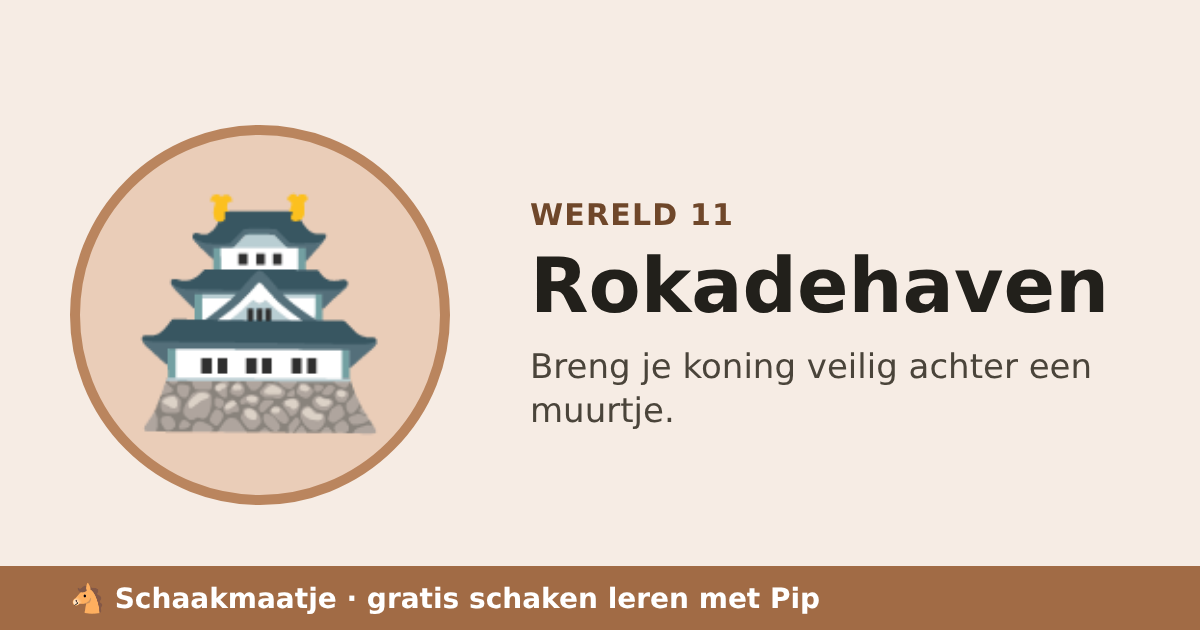
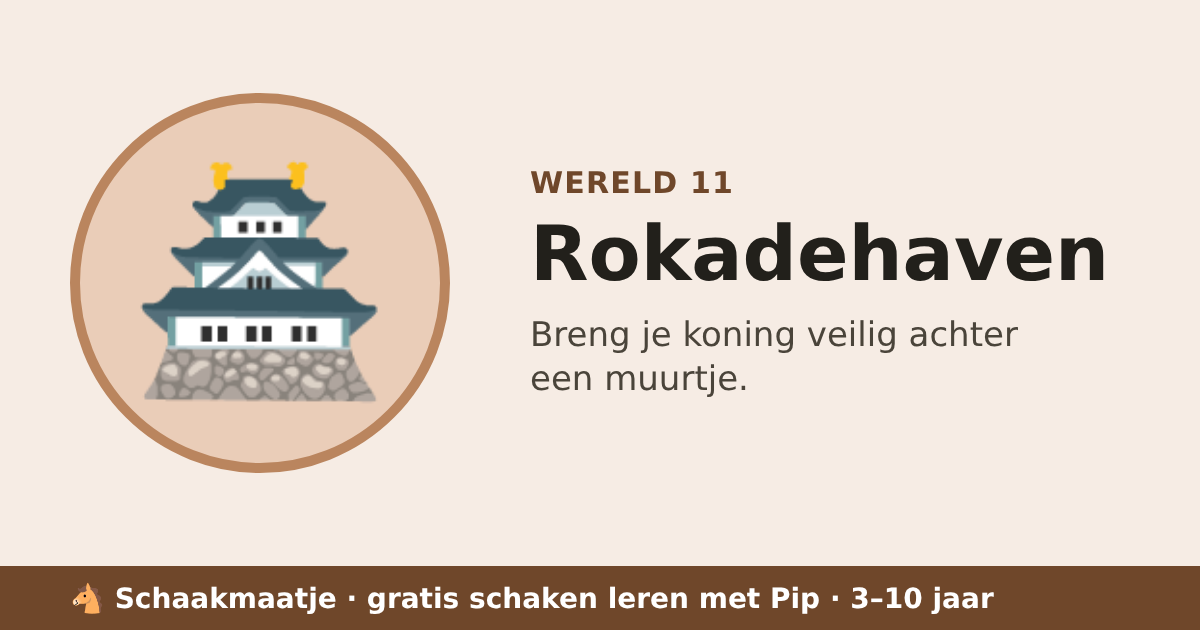
Deelplaatjes na 34e review: contrast, kleur-emoji, kopmaat, bordje, schaakclub, basePath

Changed region(s): [[0.0308, 0.1508, 0.4008, 0.8143], [0.0, 0.8746, 1.0, 1.0], [0.4317, 0.2714, 0.925, 0.6937]]

diff --git a/scripts/deelbeelden.ts b/scripts/deelbeelden.ts
@@ -8,6 +8,9 @@
  * erop waar de link over gaat: het wapen en de kleur van de wereld, of het stuk.
  * Een plaatje per wereld en niet per les: 15 in plaats van 49, en een les deelt het
  * beeld van zijn wereld. Bekijk ze vóór je commit (emoji hangen af van de machine).
+ *
+ * Draai dit opnieuw als een wereldnaam, belofte, vraag of `kort` verandert: de tekst
+ * staat in het plaatje gebakken. Alleen dan: elke generatie is ~2 MB in git.
  */
 import { chromium } from 'playwright'
 import { mkdirSync } from 'node:fs'
@@ -19,24 +22,37 @@ const UIT = join(process.cwd(), 'public', 'og')
 mkdirSync(UIT, { recursive: true })
 const GLYPH: Record<string, string> = { k: '♚', q: '♛', r: '♜', b: '♝', n: '♞', p: '♟' }
 
+const escape = (t: string) => t.replace(/&/g, '&amp;').replace(/</g, '&lt;').replace(/>/g, '&gt;')
+/** Geen weesje: de laatste twee woorden blijven bij elkaar. En "L-sprong" breekt niet. */
+const zet = (t: string) => escape(t).replace(/L-/g, 'L\u2011').replace(/ (\S+)$/, '\u00a0$1')
+// Een kop die langer is, krijgt een kleinere letter, zodat hij met marge in twee regels past.
+const kopMaat = (t: string) => (t.length > 26 ? 56 : t.length > 18 ? 62 : t.length > 13 ? 68 : 76)
+// Een klein geblokt bord (8×8, licht rechtsonder) voor de pagina over het opzetten.
+const BORDJE = `<svg viewBox="0 0 8 8" width="230" height="230" shape-rendering="crispEdges">${Array.from({ length: 64 }, (_, i) => {
+  const x = i % 8
+  const y = Math.floor(i / 8)
+  return `<rect x="${x}" y="${y}" width="1" height="1" fill="${(x + y) % 2 ? '#7d9a76' : '#f1e8da'}"/>`
+}).join('')}<rect x="0" y="0" width="8" height="8" fill="none" stroke="#5a4a36" stroke-width="0.12"/></svg>`
+
 const kaart = (o: { toon: number; beeld: string; kop: string; onder: string; label: string; glyph?: boolean }) => `
 <!doctype html><html><head><meta charset="utf-8"><style>
   * { box-sizing: border-box; margin: 0; }
   body { width: 1200px; height: 630px; font-family: 'DejaVu Sans', sans-serif;
     background: hsl(${o.toon} 50% 93%); color: #22201b; position: relative; overflow: hidden; }
-  .vak { position: absolute; inset: 0; display: grid; grid-template-columns: 420px 1fr; align-items: center; padding: 0 70px; gap: 40px; }
+  .vak { position: absolute; inset: 0 0 64px; display: grid; grid-template-columns: 420px 1fr; align-items: center; padding: 0 70px 0 70px; gap: 40px; }
+  .vak > div:last-child { padding-right: 0; max-width: 600px; }
   .wapen { width: 380px; height: 380px; border-radius: 50%; display: grid; place-items: center;
     background: hsl(${o.toon} 55% 82%); border: 10px solid hsl(${o.toon} 40% 55%);
     font-size: ${o.glyph ? 250 : 210}px; line-height: 1; color: #22201b; }
   .label { font-size: 30px; font-weight: 700; color: hsl(${o.toon} 45% 30%); letter-spacing: 0.04em; text-transform: uppercase; }
-  h1 { font-size: 76px; line-height: 1.05; margin: 14px 0 18px; }
+  h1 { font-size: ${kopMaat(o.kop)}px; line-height: 1.05; margin: 14px 0 18px; }
   p { font-size: 34px; line-height: 1.3; color: #4a443a; }
   .voet { position: absolute; left: 0; right: 0; bottom: 0; height: 64px; display: flex; align-items: center; gap: 14px;
-    padding: 0 70px; background: hsl(${o.toon} 40% 45%); color: #fff; font-size: 28px; font-weight: 700; }
+    padding: 0 70px; background: hsl(${o.toon} 45% 30%); color: #fff; font-size: 28px; font-weight: 700; }
 </style></head><body>
   <div class="vak"><div class="wapen">${o.beeld}</div>
-  <div><div class="label">${o.label}</div><h1>${o.kop}</h1><p>${o.onder}</p></div></div>
-  <div class="voet">🐴 Schaakmaatje · gratis schaken leren met Pip</div>
+  <div><div class="label">${escape(o.label)}</div><h1>${zet(o.kop)}</h1><p>${zet(o.onder)}</p></div></div>
+  <div class="voet">🐴 Schaakmaatje · gratis schaken leren met Pip · 3–10 jaar</div>
 </body></html>`
 
 const browser = await chromium.launch(process.env.CHROMIUM_PAD ? { executablePath: process.env.CHROMIUM_PAD } : {})
@@ -46,11 +62,17 @@ const maak = async (naam: string, html: string) => {
   await page.screenshot({ path: join(UIT, naam), type: 'png' })
 }
 for (const w of WERELDEN) {
-  await maak(`wereld-${w.id}.png`, kaart({ toon: w.toon, beeld: w.emoji, label: `Wereld ${w.nummer}`, kop: w.naam, onder: w.belofte }))
+  // Met U+FE0F: zonder dat tekende ⚡ (Schaakmeer) als dun zwart lijntje.
+  const emoji = w.emoji.endsWith('\uFE0F') ? w.emoji : `${w.emoji}\uFE0F`
+  await maak(`wereld-${w.id}.png`, kaart({ toon: w.toon, beeld: emoji, label: `Wereld ${w.nummer}`, kop: w.naam, onder: w.belofte }))
 }
 for (const o of SCHAAKREGELS) {
   const glyph = o.stuk ? GLYPH[o.stuk] : undefined
-  await maak(`regel-${o.slug}.png`, kaart({ toon: 32, beeld: glyph ?? o.teken ?? '♞', glyph: Boolean(glyph), label: 'Schaakregels voor kinderen', kop: o.vraag, onder: o.kort }))
+  // Twee tekens die weinig zeiden (34e review): een raster voor het bord, een pijl voor
+  // en passant. Nu een echt bordje en de pion waar het over gaat.
+  const beeld = o.slug === 'schaakbord-opzetten' ? BORDJE : o.slug === 'en-passant' ? GLYPH.p : (glyph ?? o.teken ?? '♞')
+  await maak(`regel-${o.slug}.png`, kaart({ toon: 32, beeld, glyph: Boolean(glyph) || o.slug === 'en-passant', label: 'Schaakregels voor kinderen', kop: o.vraag, onder: o.kort }))
 }
+await maak('schaakclub.png', kaart({ toon: 140, beeld: '🏆', label: 'Voor ouders', kop: 'Een schaakclub voor je kind vinden', onder: 'Klaar voor het echte bord? Zo vind je een club in de buurt.' }))
 await browser.close()
 console.log(`Deelplaatjes: ${WERELDEN.length} werelden en ${SCHAAKREGELS.length} schaakregels in public/og/.`)

diff --git a/scripts/hosting-klaar.ts b/scripts/hosting-klaar.ts
@@ -372,15 +372,29 @@ function vooraadOffline() {
 function controleerDeelplaatjes() {
   const fout: string[] = []
   let geteld = 0
+  const basis = (process.env.NEXT_PUBLIC_BASE_PATH ?? '').replace(/^\/|\/$/g, '')
   for (const b of alleBestanden(UIT)) {
     if (!b.endsWith('.html')) continue
-    for (const m of readFileSync(b, 'utf8').matchAll(/property="og:image" content="([^"]+)"/g)) {
+    const html = readFileSync(b, 'utf8')
+    // og:image én twitter:image, en in welke volgorde Next de attributen ook zet.
+    for (const m of html.matchAll(/<meta[^>]*(?:property="og:image"|name="twitter:image")[^>]*>/g)) {
+      const inhoud = m[0].match(/content="([^"]+)"/)?.[1]
+      if (!inhoud) continue
       geteld++
-      const pad = new URL(m[1]).pathname.replace(/^\//, '')
-      const basis = (process.env.NEXT_PUBLIC_BASE_PATH ?? '').replace(/^\/|\/$/g, '')
-      const lokaal = basis && pad.startsWith(basis + '/') ? pad.slice(basis.length + 1) : pad
-      if (!existsSync(join(UIT, lokaal))) fout.push(`${b.slice(UIT.length)} → ${m[1]}`)
+      let pad = new URL(inhoud, 'https://schaakmaatje.nl').pathname.replace(/^\//, '')
+      if (basis) {
+        if (!pad.startsWith(basis + '/')) {
+          fout.push(`${b.slice(UIT.length)} → ${inhoud} (zonder ${basis}/)`)
+          continue
+        }
+        pad = pad.slice(basis.length + 1)
+      }
+      if (!existsSync(join(UIT, pad))) fout.push(`${b.slice(UIT.length)} → ${inhoud}`)
     }
+  }
+  if (geteld === 0) {
+    console.error('Hosting-klaar: geen enkel deelplaatje gevonden in de HTML. Is de uitvoer van Next veranderd?')
+    process.exit(1)
   }
   if (fout.length) {
     console.error(`Hosting-klaar: deelplaatjes die niet bestaan:\n  ${fout.slice(0, 5).join('\n  ')}`)

diff --git a/src/seo.ts b/src/seo.ts
@@ -76,9 +76,12 @@ export function deelkaart(kaart: {
    */
   beeld?: { pad: string; alt: string }
 }): Pick<Metadata, 'openGraph' | 'twitter'> {
+  // metadataBase zet de basePath er niet voor; zonder deze regel wees elk deelplaatje in
+  // een submap naar een 404 (34e review).
+  const basis = process.env.NEXT_PUBLIC_BASE_PATH ?? ''
   const plaatje = kaart.beeld
-    ? { url: kaart.beeld.pad, width: 1200, height: 630, alt: kaart.beeld.alt }
-    : { url: '/og.png', width: 1200, height: 630, alt: `${NAAM}: ${SLOGAN}` }
+    ? { url: `${basis}${kaart.beeld.pad}`, width: 1200, height: 630, alt: kaart.beeld.alt }
+    : { url: `${basis}/og.png`, width: 1200, height: 630, alt: `${NAAM}: ${SLOGAN}` }
   return {
     openGraph: {
       type: 'website',

diff --git a/src/content/schaakregels.ts b/src/content/schaakregels.ts
@@ -725,7 +725,7 @@ export const SCHAAKREGELS: Onderwerp[] = [
     zoektitel: 'Pat bij schaken: wat het is en hoe je het voorkomt',
     omschrijving:
       'Pat is gelijkspel: je staat niet schaak, maar je kunt geen enkele zet meer doen. Zo ziet het eruit, en zo voorkom je het. Met bewegend bord.',
-    kort: 'Niet schaak, maar geen zet meer: gelijkspel.',
+    kort: 'Niet schaak, maar geen geldige zet meer: remise.',
     teken: '½',
     antwoord:
       'Pat is als de speler die aan zet is niet schaak staat, maar ook geen enkele geldige zet meer heeft. Dan is de partij afgelopen in remise, gelijkspel, ook als de ander veel meer stukken heeft.',

diff --git a/src/app/schaakclub/page.tsx b/src/app/schaakclub/page.tsx
@@ -35,6 +35,7 @@ export const metadata: Metadata = {
     titel: 'Een schaakclub voor je kind vinden | Schaakmaatje',
     omschrijving: OMSCHRIJVING,
     url: `${SITE}/schaakclub/`,
+    beeld: { pad: '/og/schaakclub.png', alt: 'Een schaakclub voor je kind vinden' },
   }),
 }
 

diff --git a/docs/reviews/2026-11-04-vierendertigste-review.md b/docs/reviews/2026-11-04-vierendertigste-review.md
@@ -1,0 +1,39 @@
+# Vierendertigste review: deelplaatjes per pagina (2026-11-04)
+
+Fase: "volgende niveau", ronde 9. Branch `volgende-niveau`. De reviewers zijn rechtstreeks gestart.
+
+**Oordeel na verwerking: GO voor deze fase.** Er is niets blokkerends. `check` en `doorloop` zijn groen. De build controleert nu 206 verwijzingen (`og:image` en `twitter:image`), ook met een basePath.
+
+## Wat er gebouwd is
+- `npm run deelbeelden` (`scripts/deelbeelden.ts`) maakt 28 plaatjes van 1200×630 in `public/og/`: 15 werelden, 12 schaakregels en schaakclub. Elk plaatje is 51–83 kB.
+- Lespagina's delen het plaatje van hun wereld, schaakregelpagina's hun eigen plaatje, en /schaakclub ook.
+- De overige pagina's houden `og.png`.
+
+## Schaakmeester
+- Bij elke regelpagina staat het goede stuk, en de uitleg en termen kloppen. Mat wordt niet vóór wereld 10 genoemd. Het plaatje van wereld 10 hoort alleen bij de lessen van die wereld, en dat is in orde.
+- **Klein: bij pat stond "geen zet meer".** *Opgelost* in de content: "Niet schaak, maar geen geldige zet meer: remise." De contentcontrole is groen.
+- **Klein: het raster bij "schaakbord opzetten" was 5×5.** *Opgelost:* er staat nu een bordje van 8×8 met rechtsonder een licht veld.
+- **Klein: "En hij kan dame worden!" (wereld 6) en de dubbele stap van de pion.** *Niet aangepast:* dat is een versimpeling en geen onwaarheid, en de regelpagina zegt het volledig.
+
+## Layout
+- **Belangrijk: de voettekst op de balk had te weinig contrast** (Weide 2,94, Schaak 2,93). *Opgelost:* de balk heeft nu overal `hsl(toon 45% 30%)`.
+- **Belangrijk: ⚡ (Schaakmeer) tekende als een lijntje.** *Opgelost* met U+FE0F: hij staat nu in kleur.
+- **Belangrijk: koppen liepen tot ±15 px van de rand.** *Opgelost:* lange koppen krijgen een kleinere letter, en de tekstkolom is maximaal 600 px breed.
+- **Klein: "L-" / "sprong" en weesjes.** *Opgelost* met een koppelteken dat niet afbreekt en een harde spatie voor het laatste woord.
+- **Klein: volle kaartjes en een kop van 4 regels.** *Opgelost* door de kleinere letter: nu maximaal 2 regels.
+- **Klein: de pijl bij en passant zei weinig.** *Opgelost:* er staat nu een pion.
+
+## Conversie
+- Afmeting en grootte zijn in orde. Titel en plaatje kloppen per pagina.
+- **/schaakclub verdient een eigen plaatje.** *Opgelost.*
+- **Klein: de leeftijd ontbrak.** *Opgelost:* de voetbalk zegt nu "· 3–10 jaar".
+- **Klein: WhatsApp snijdt soms een vierkant uit.** *Niet getest:* daarvoor is een echte telefoon nodig. Het staat als testpunt op het scorebord.
+- **/lessen en het diploma.** *Niet gedaan:* het diploma kan alleen een algemeen plaatje krijgen en is geen deelbare URL. Dat hangt samen met de open vraag aan Kaj.
+
+## Codebase
+- **Belangrijk: met een basePath meldde de controle ten onrechte dat alles bestond.** *Opgelost:* `deelkaart` zet de basePath voor het pad, en de controle eist dat prefix. Met `NEXT_PUBLIC_BASE_PATH=/proef` bewezen.
+- **Klein: alleen `og:image`, afhankelijk van de attribuutvolgorde, en geen fout bij 0 gevonden.** *Opgelost:* de controle kijkt nu ook naar `twitter:image`, de volgorde maakt niet meer uit, en 0 gevonden is een fout.
+- **Klein: een relatief pad liet de controle crashen.** *Opgelost:* `new URL(inhoud, basis)`.
+- **Klein: plaatjes kunnen stil verouderen.** *Gedocumenteerd* in de kop van het script: opnieuw draaien bij een tekstwijziging.
+- **Klein: geen escaping.** *Opgelost.*
+- **Klein: plaatjes hangen af van de machine, en elke generatie is 2 MB in git.** *Geaccepteerd,* met de afspraak om alleen opnieuw te maken als de tekst verandert.

diff --git a/docs/volgende-niveau.md b/docs/volgende-niveau.md
@@ -28,7 +28,7 @@ Schermafbeeldingen: `docs/volgende-niveau/voor-*.png`.
 | Beloningsmoment per wereld | ronde 3: eigen held-kaart (wapen 128 px, confetti, wapenrij), diploma-voorproef | 🟢 (wow nog te meten) |
 | `prefers-reduced-motion` | nieuwe animaties (golf, vonk, wapen) bewaakt in doorloop, aan én uit; oudere nog niet allemaal nagelopen | 🟡 |
 | Wow-toets ≥ 9 (4 schermen, 2 reviewers) | ronde 6: start 7/8. ronde 5: kaart 6,5/7,5. ronde 4: eerste les 7/7. ronde 3: wereld af 5/7, diploma 7,5/8 (vóór verbouwing). ronde 2: start 6/7, les 6,5/6, diploma 3/–, kaart 5/6,5 (zie 27e review) | 🔴 |
-| OG-afbeelding per pagina | één algemene `og.png` voor alle pagina's | 🔴 |
+| OG-afbeelding per pagina | ronde 9: 28 eigen plaatjes (werelden, schaakregels, schaakclub), lessen delen hun wereld; build controleert 206 verwijzingen. Nog te testen: vierkante uitsnede in echte WhatsApp | 🟢 |
 | Deelknop op trotse momenten | ronde 3: op wereld af en diploma, alleen link + vaste zin, anonieme telling `Gedeeld`; doorloop bewaakt share én kopieer zonder naam | 🟢 |
 | Installeerbaar | manifest + service worker aanwezig | 🟢 |
 | Wereld 0–2 offline | ronde 8: 51 bestanden (1,3 MB) vooraf na het eerste bezoek; doorloop bewijst les, minispel, kaart, kaart→les en offlinepagina | 🟢 |
@@ -43,7 +43,7 @@ Gedaan: bord liggend (r2), trots moment + delen (r3), eerste les levendiger (r4)
 2. ~~Startpagina-held~~ (r6). Rest: tikbaar paard in de held.
 3. ~~Raakvlakken~~ (r7).
 4. ~~Wereld 0–2 offline~~ (r8).
-5. **OG per pagina.**
+5. ~~OG per pagina~~ (r9).
 6. Tik-reactie < 100 ms meten in de doorloop.
 7. Pip leeft mee in de les (springt bij goed veld, groter in zijkolom, huppelt het bord op) — 29e review.
 
@@ -56,3 +56,4 @@ Gedaan: bord liggend (r2), trots moment + delen (r3), eerste les levendiger (r4)
 - Ronde 6: startpagina — held met paardbord (begint bij de L), Pip met ballon bij het bord, beloftes als labels, verse schermafbeeldingen en deelkaart (scripts/schermen.mjs).
 - Ronde 7: raakvlakken — alle knoppen 64 px, Pip en luisterknop 64, bord rand-tot-rand op smalle telefoons (veld 44), meetscript raakvlakken.mjs.
 - Ronde 8: wereld 0–2 offline na het eerste bezoek, kindvriendelijke offlinepagina, belofte op startpagina en /over preciezer.
+- Ronde 9: deelplaatjes per wereld, schaakregel en schaakclub; pat-uitleg aangescherpt; basePath-correcte og:image met buildcontrole.
